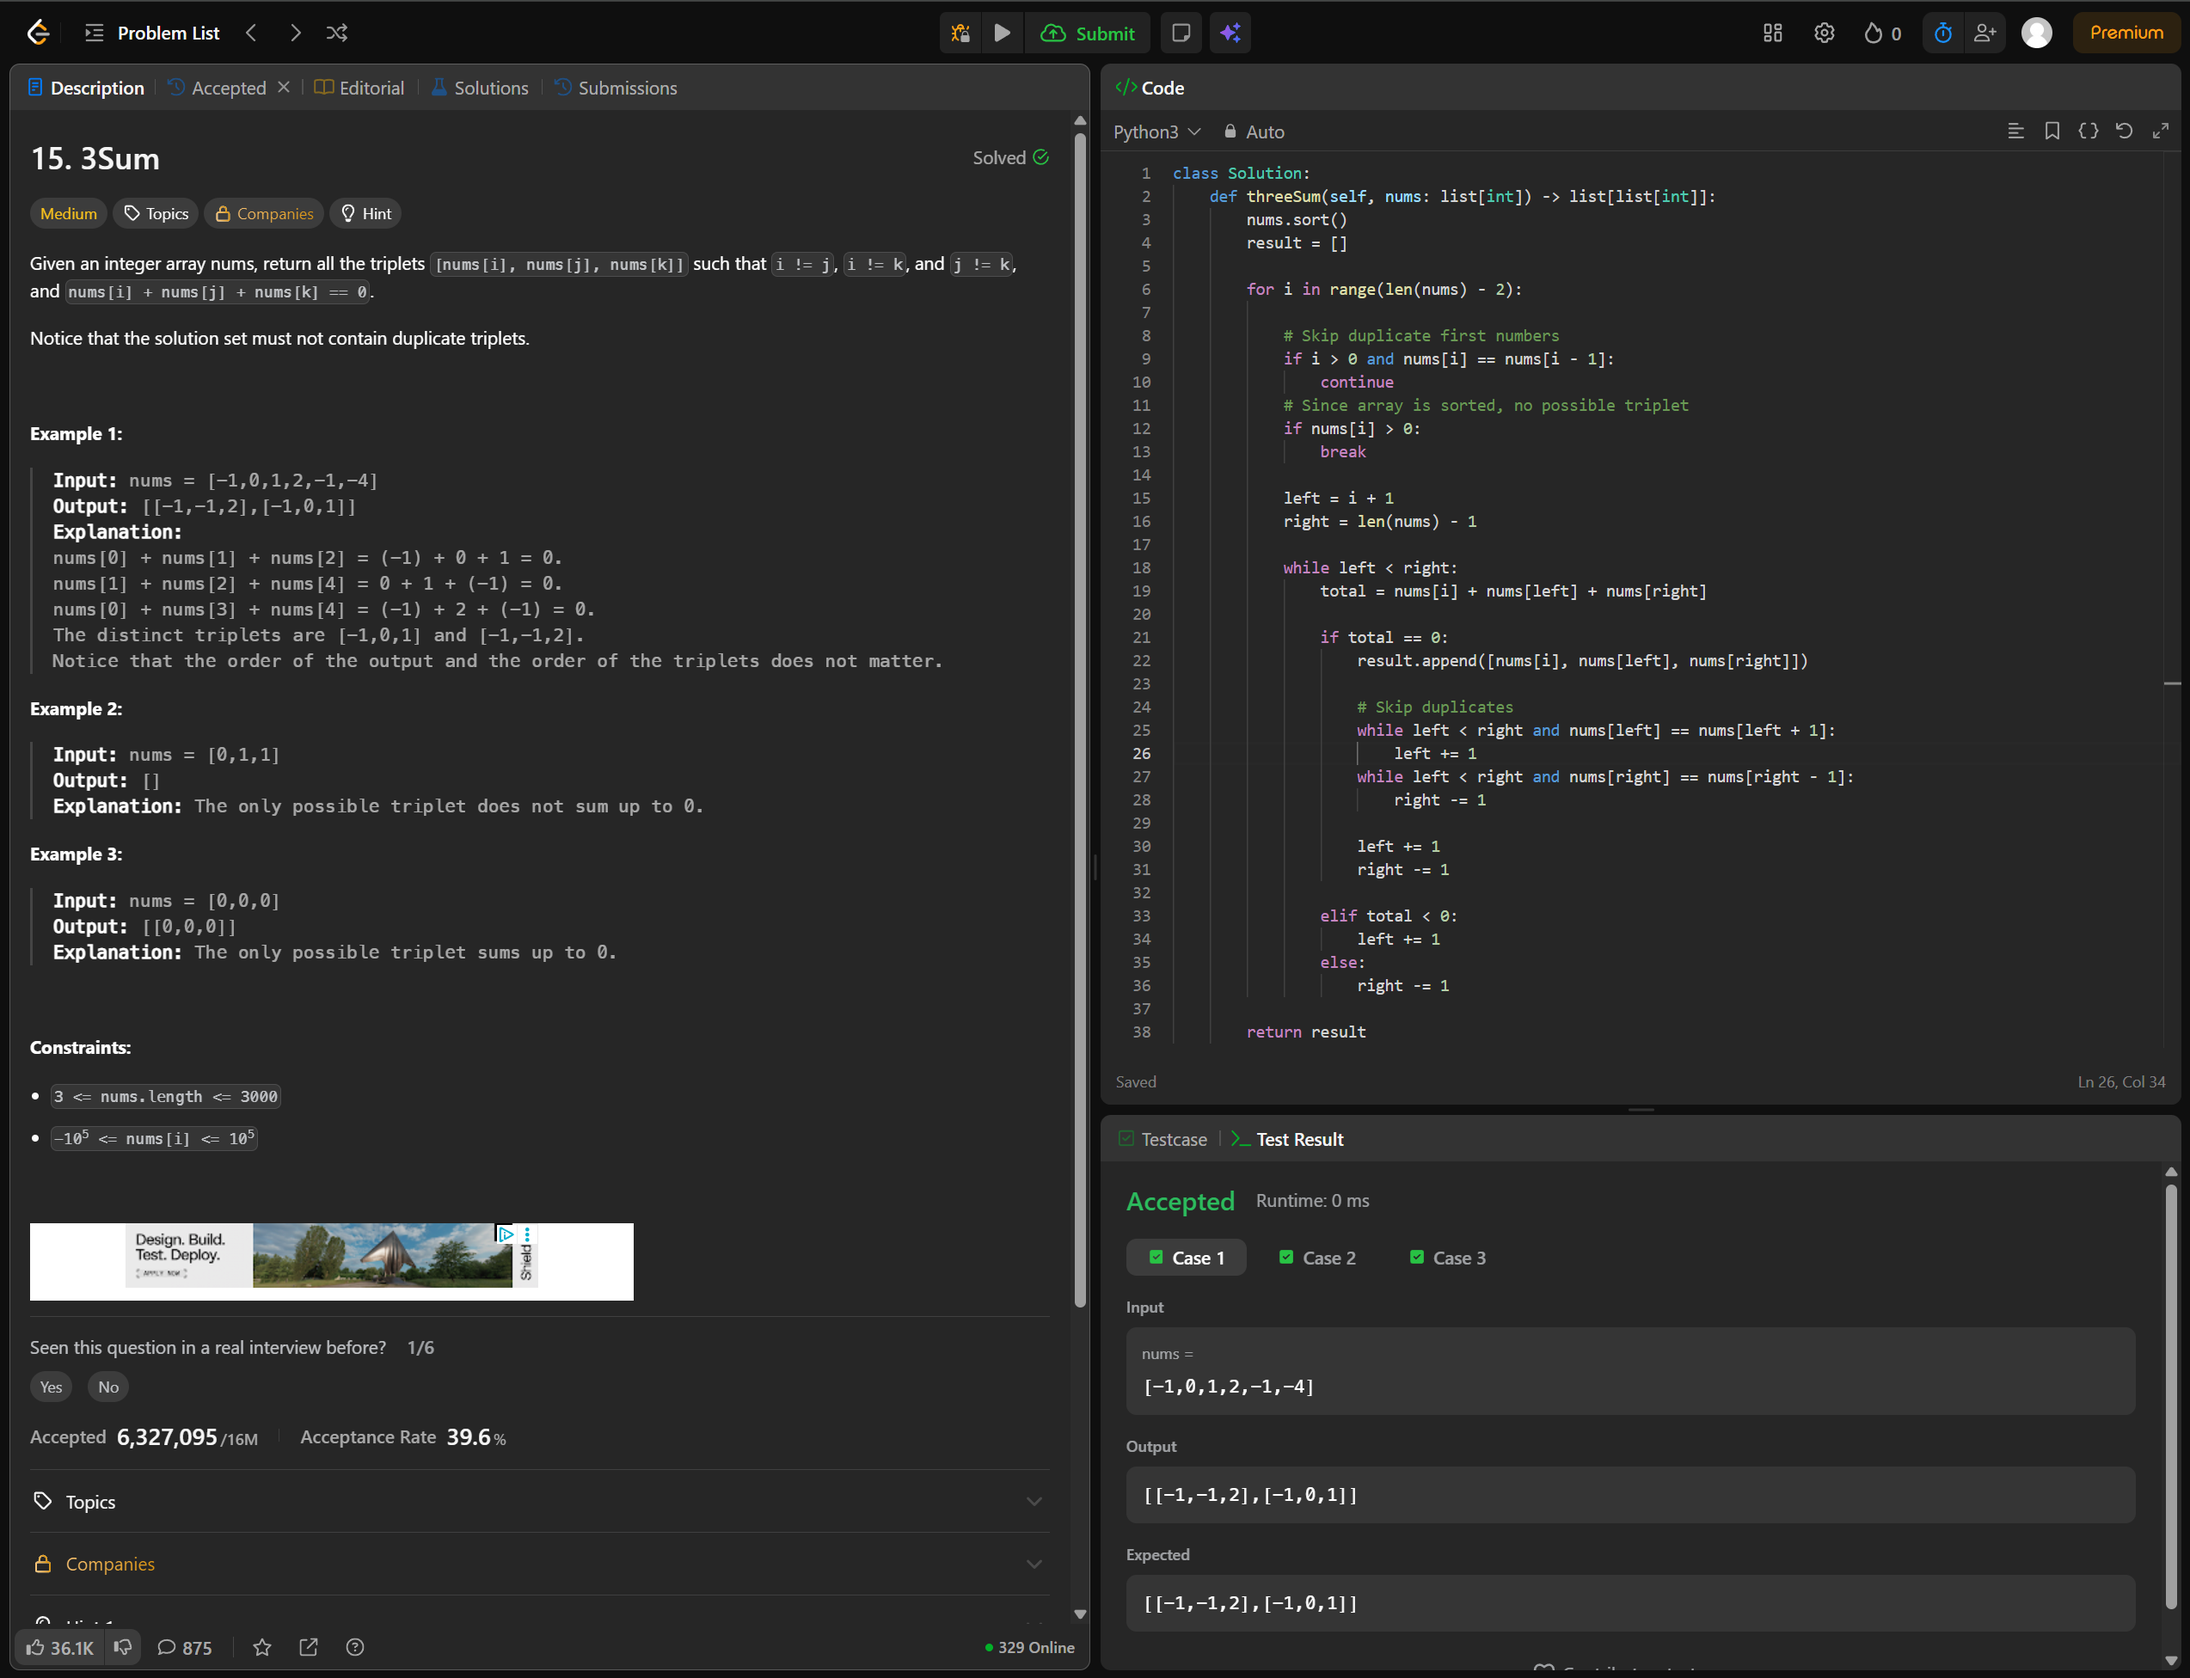
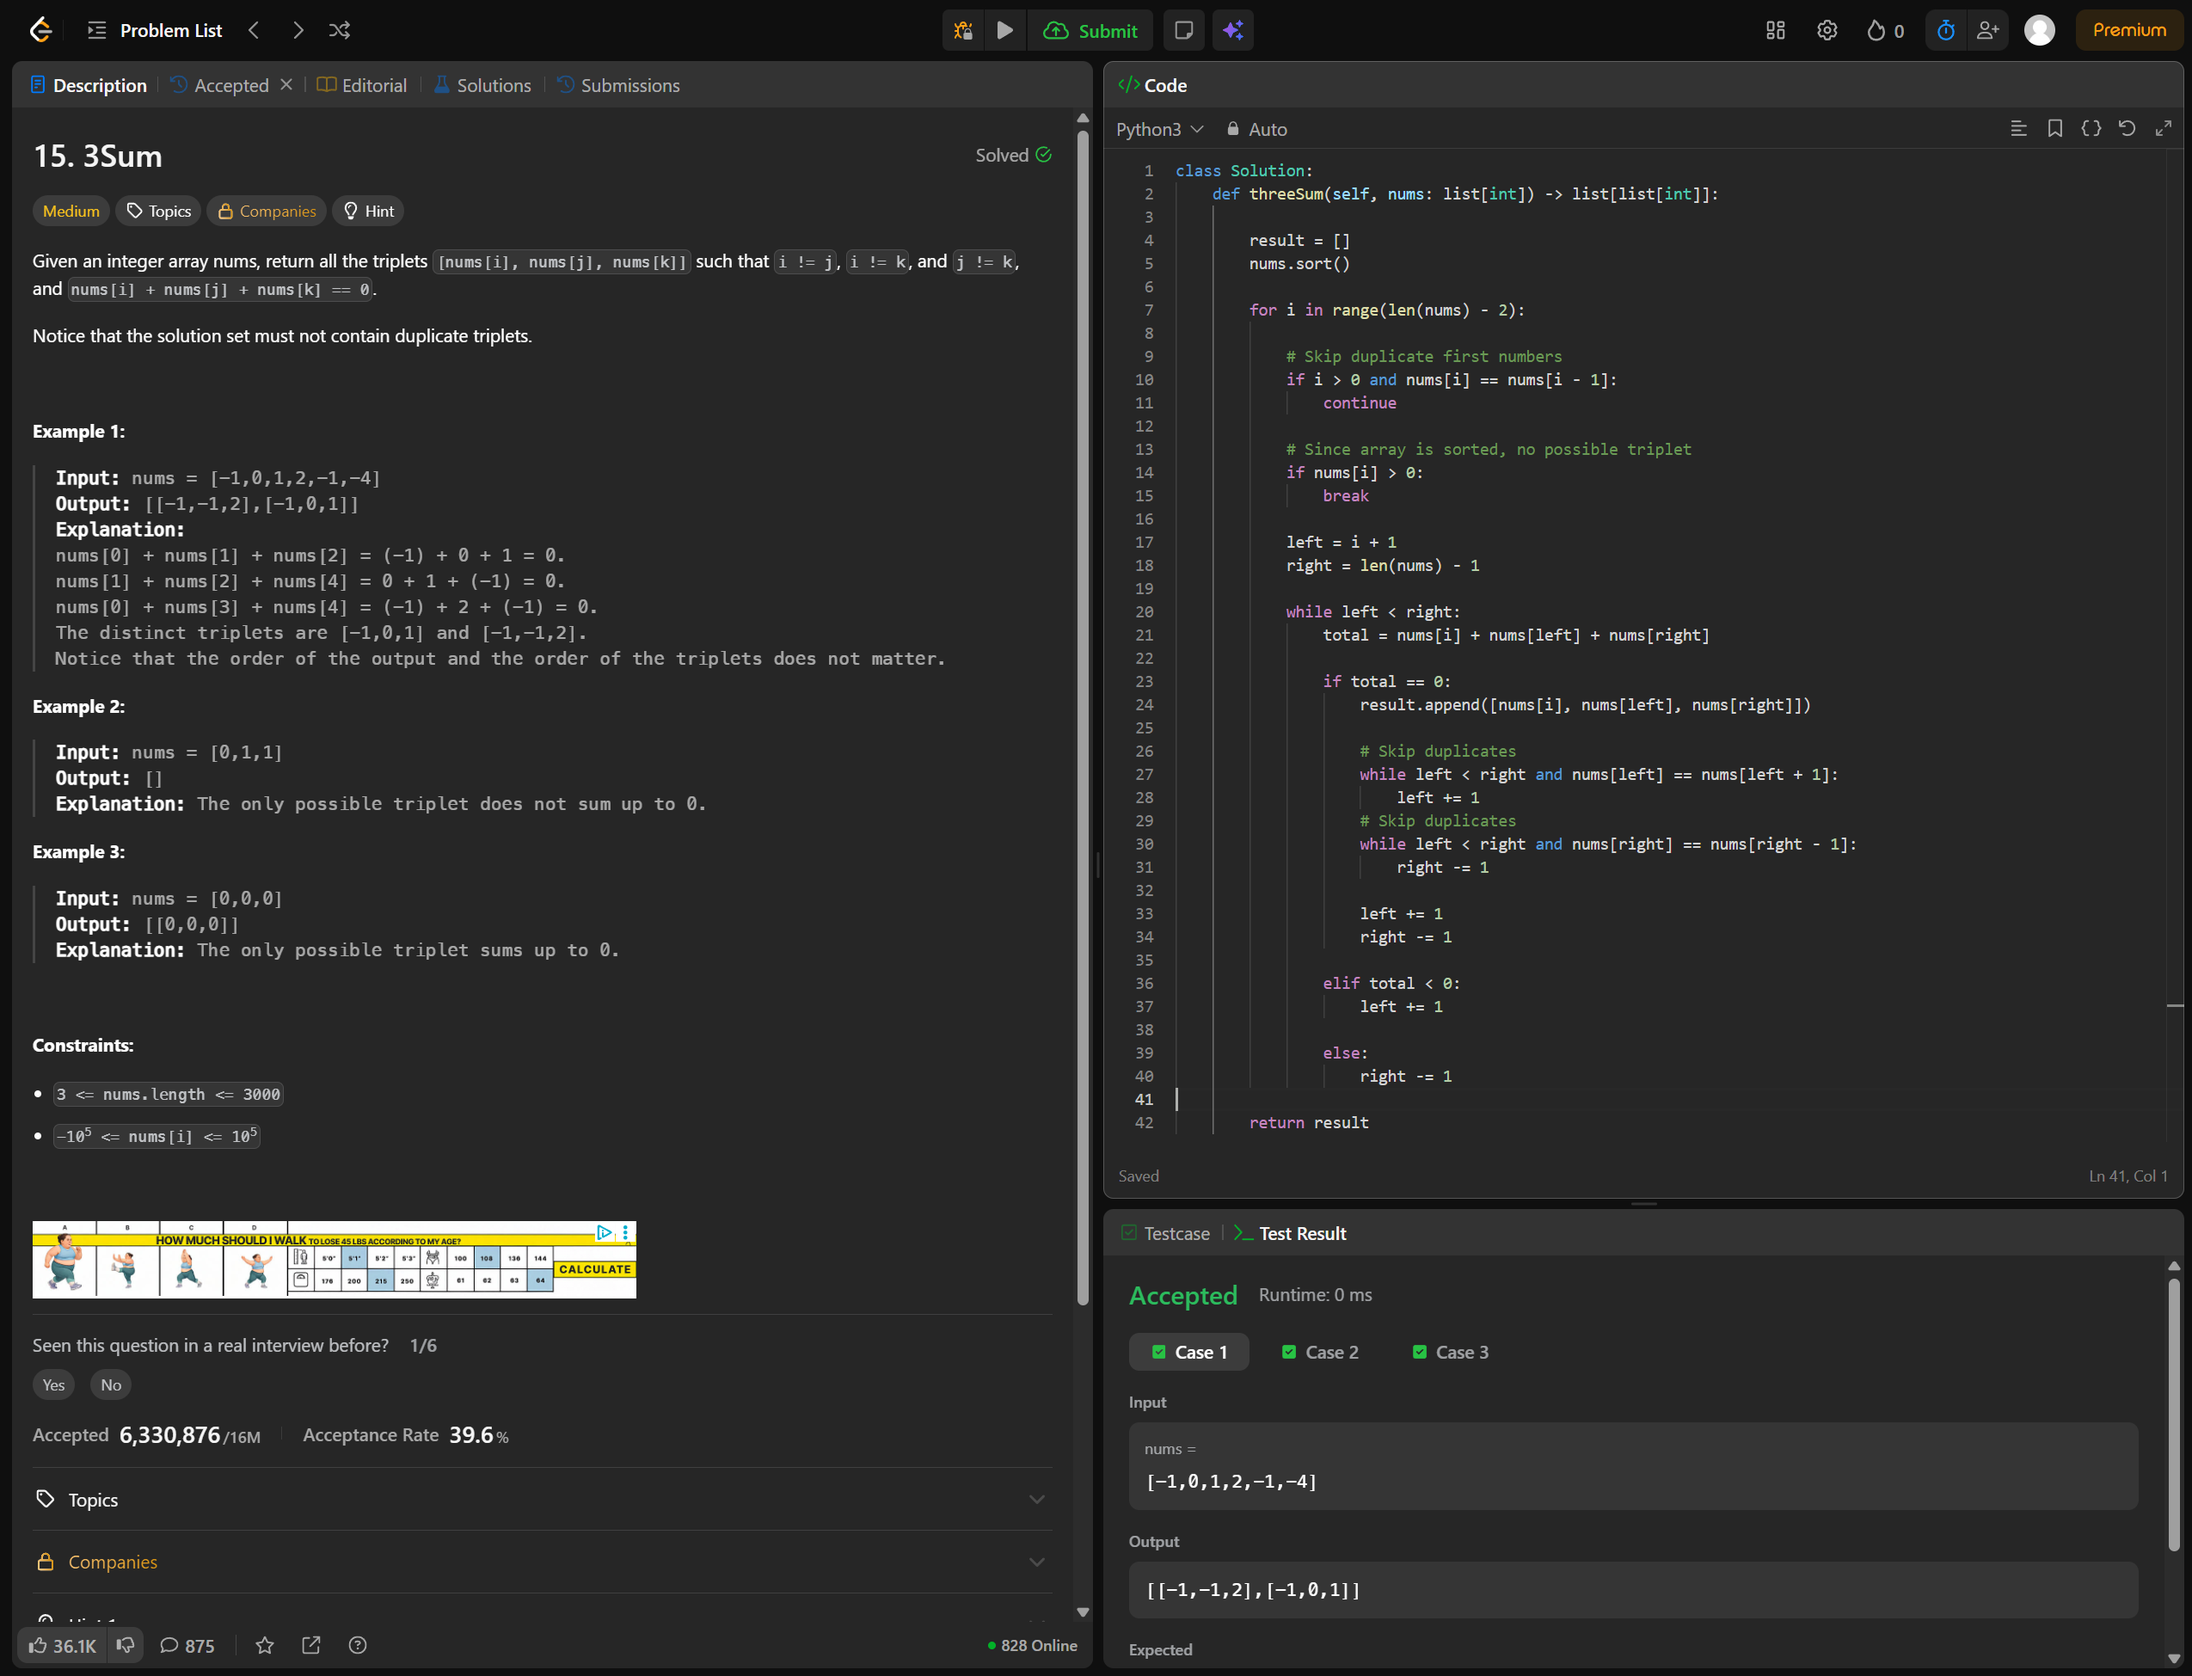
15. 3Sum

diff --git a/Medium/15. 3Sum/15. 3Sum.py b/Medium/15. 3Sum/15. 3Sum.py
@@ -3,8 +3,8 @@
 class Solution:
     def threeSum(self, nums: list[int]) -> list[list[int]]:
 
-        nums.sort()
         result = []
+        nums.sort()
 
         for i in range(len(nums) - 2):
 
@@ -29,6 +29,7 @@ class Solution:
                     while left < right and nums[left] == nums[left + 1]:
                         left += 1
 
+                    # Skip duplicates
                     while left < right and nums[right] == nums[right - 1]:
                         right -= 1
 
@@ -37,6 +38,7 @@ class Solution:
 
                 elif total < 0:
                     left += 1
+
                 else:
                     right -= 1
 
